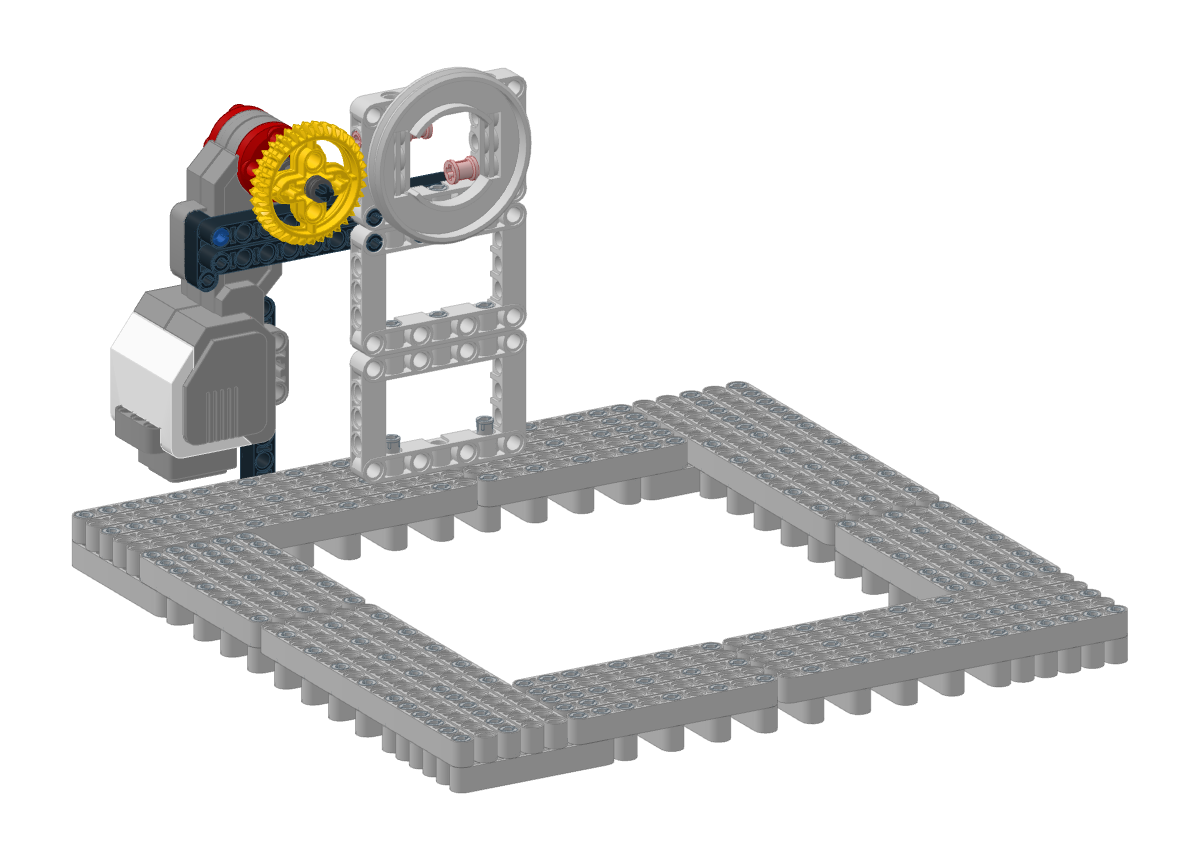
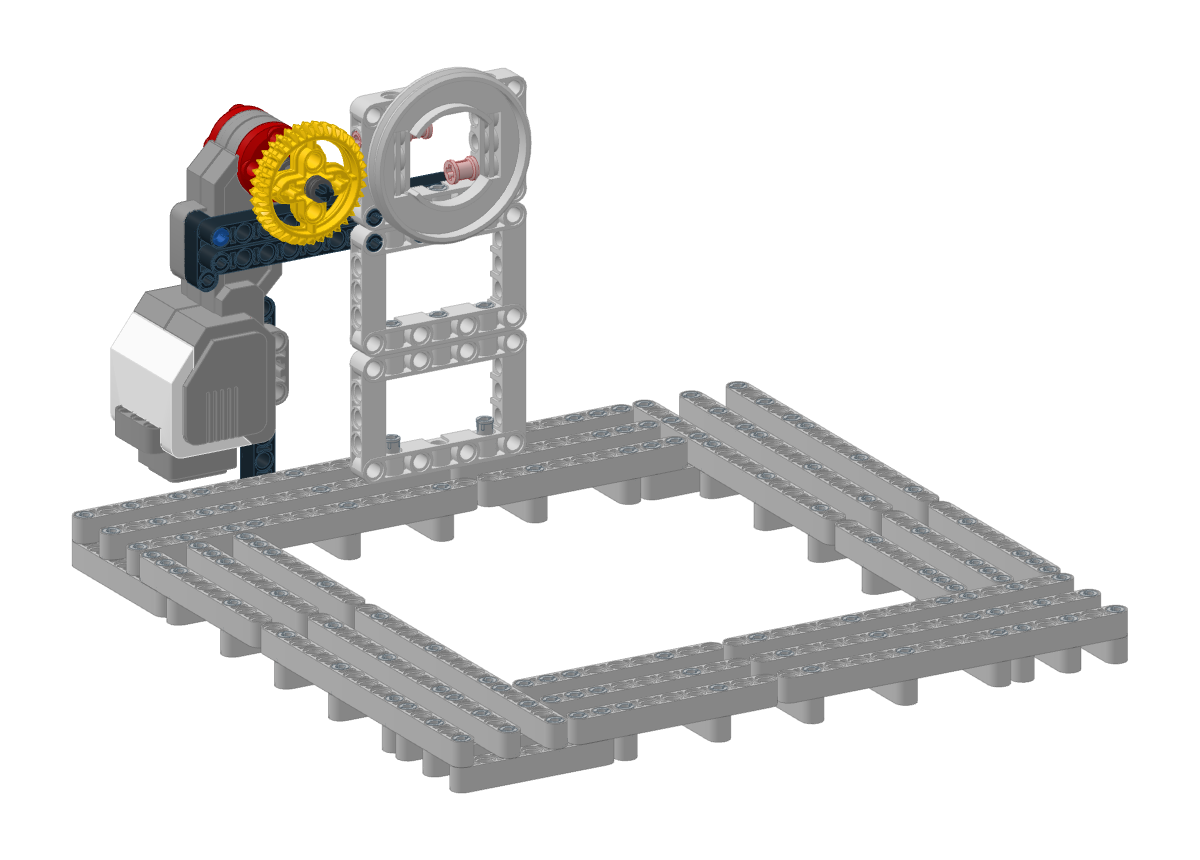
v3 底座改为镂空网格，在不影响刚度的前提下省料
用户问底座是否有必要铺满。占地保持 5 孔宽不变（站得稳），上层从 5 列减为
3 列（两侧 + 竖墙所在的正中），下层横梁从每 2 孔一根改为每 4 孔一根，
上下两层交叉处都有销，仍是刚性网格。每条边 24 根梁、47 个销降为 14 根、
30 个销。run_check、four_arm 零问题，单元测试通过。

Claude-Session: https://claude.ai/code/session_01Ms6v6oKbLQsBqZ2uktk7cX

diff --git a/docs/lego/v3/index.html b/docs/lego/v3/index.html
@@ -90,12 +90,12 @@ ul.plain{margin:0;padding-left:1.2em;display:grid;gap:6px;max-width:70ch}
 <h1>四臂整机: 死点锁紧夹爪 + 不随转的舵机</h1>
 <p class="lead">v2 解决了 "机械臂挂在马达输出轴上" 的问题, 但它仍然是一只单臂, 转动部分又长又重, 舵机跟着转。CubeStormer 3 这一级别的机器, 专业性体现在整机: 四只机械手又短又轻、夹得住也松得开、能连续旋转, 四只之间互不干涉。v3 按这个目标从整机重新设计, 自成一套模型和检查。之前的版本都保留不动: <a href="https://claude.ai/artifact/BWgtEpkX4PGRGnYzvNV2L4">v1 大马达版</a>、<a href="https://claude.ai/artifact/9yGEt1ogaxxmStkyxYWYBL">v2 转盘版</a>。</p>
 <div class="plate"><img src="img/cover.png" alt="四臂整机总览" class="" loading="lazy" width="1400" height="900"></div>
-<div class="facts"><div class="fact"><b>20</b><span>个步骤 (一个模块的完整步骤, 其余三个照做)</span></div><div class="fact"><b>708</b><span>个乐高零件, 另加 EV3 大马达和 Geekservo 各 4 个</span></div><div class="fact"><b>约 52 mm</b><span>转动部分长度 (v2 约 144mm)</span></div><div class="fact"><b>无限</b><span>机械手旋转范围 (舵机不跟着转)</span></div></div>
+<div class="facts"><div class="fact"><b>20</b><span>个步骤 (一个模块的完整步骤, 其余三个照做)</span></div><div class="fact"><b>600</b><span>个乐高零件, 另加 EV3 大马达和 Geekservo 各 4 个</span></div><div class="fact"><b>约 52 mm</b><span>转动部分长度 (v2 约 144mm)</span></div><div class="fact"><b>无限</b><span>机械手旋转范围 (舵机不跟着转)</span></div></div>
 <nav class="toc"><a href="#eval">v2 评估</a><a href="#idea">设计思路</a><a href="#four">四臂检查</a><a href="#buy">要买的零件</a><a href="#bom">零件清单</a><a href="#s1">1. 底座</a><a href="#s2">2. 竖墙</a><a href="#s3">3. 转盘下半</a><a href="#s4">4. 马达尾脚</a><a href="#s5">5. 马达前梁</a><a href="#s6">6. 齿轮</a><a href="#s7">7. 装竖墙</a><a href="#s8">8. 装马达</a><a href="#s9">9. 舵机平台</a><a href="#s10">10. 舵机</a><a href="#s11">11. 装平台</a><a href="#s12">12. 十字块和舵机连杆</a><a href="#s13">13. 侧板与夹指架</a><a href="#s14">14. 转盘上半</a><a href="#s15">15. 夹指</a><a href="#s16">16. 连杆与十字接头</a><a href="#s17">17. 推杆</a><a href="#s18">18. 装机械头</a><a href="#s19">19. 装另外三个机械手</a><a href="#s20">20. 放入魔方</a><a href="#checks">检查与待验证</a><a href="#safety">上电前</a></nav>
 </header>
 <section id="eval" class="cover"><h2>v2 评估: 离 CubeStormer 3 的专业水准还差在整机</h2>
 <p>CubeStormer 3 没有公开图纸和源码, 下表 "CS3 级别的做法" 一列是从公开视频能看到的整体特征归纳出来的, 不是对它内部结构的复刻。v3 的每个具体结构都是在这里重新推导、并用程序检查过的。</p>
-<div class="tbl"><table class="cmp"><tr><th>方面</th><th>v2</th><th>CS3 级别的做法</th><th>v3</th></tr><tr><td>整机形态</td><td>只有单臂; 四臂怎么排、底座怎么连都没有设计, 也没有四臂之间的干涉检查</td><td>四个一样的模块两两垂直, 固定在一个整体底座上</td><td>四个相同模块 + 横梁两层交叉铺成的平台底座, 孔位保证四根轴线过魔方中心、两两垂直; 四臂干涉按全部状态组合扫描过</td></tr><tr><td>转动部分</td><td>转盘上装着舵机、叉子盒、两根 16 号导轨, 从转盘端面到魔方约 144mm, 转动惯量大</td><td>夹爪短而轻, 马达和舵机都不跟着转</td><td>转动的只有转盘上半、两块侧板、夹指、连杆和推杆, 约 52mm 长, 没有舵机和马达</td></tr><tr><td>夹紧</td><td>U 形叉沿轴向插入, 水平时没有压紧力, 曲柄停在死点不等于锁紧 (外部评审 ① ②)</td><td>两片夹指从两侧合拢夹住魔方</td><td>两片会转的夹指 + 肘节连杆: 连杆推到死点时魔方的反推力沿连杆方向互相抵消, 夹指推不开, 舵机不受力</td></tr><tr><td>旋转范围</td><td>舵机随机械手转动, 线缆会缠, 规划器必须限角度 (±270° 时规划慢 20 多倍)</td><td>机械手可以连续旋转</td><td>舵机固定在后面的平台上, 经穿过转盘中孔的推杆开合夹爪; 机械手可以无限旋转, 规划器不需要角度限制</td></tr><tr><td>驱动</td><td>马达输出轴直接带机械手</td><td>—</td><td>马达偏到侧面, 36 齿齿轮带 60 齿转盘外圈, 扭矩放大 1.67 倍, 马达的回差和编码器误差在机械手上缩小 1.67 倍; 输出轴不承受弯矩</td></tr></table></div>
+<div class="tbl"><table class="cmp"><tr><th>方面</th><th>v2</th><th>CS3 级别的做法</th><th>v3</th></tr><tr><td>整机形态</td><td>只有单臂; 四臂怎么排、底座怎么连都没有设计, 也没有四臂之间的干涉检查</td><td>四个一样的模块两两垂直, 固定在一个整体底座上</td><td>四个相同模块 + 横梁两层交叉搭成的网格底座, 孔位保证四根轴线过魔方中心、两两垂直; 四臂干涉按全部状态组合扫描过</td></tr><tr><td>转动部分</td><td>转盘上装着舵机、叉子盒、两根 16 号导轨, 从转盘端面到魔方约 144mm, 转动惯量大</td><td>夹爪短而轻, 马达和舵机都不跟着转</td><td>转动的只有转盘上半、两块侧板、夹指、连杆和推杆, 约 52mm 长, 没有舵机和马达</td></tr><tr><td>夹紧</td><td>U 形叉沿轴向插入, 水平时没有压紧力, 曲柄停在死点不等于锁紧 (外部评审 ① ②)</td><td>两片夹指从两侧合拢夹住魔方</td><td>两片会转的夹指 + 肘节连杆: 连杆推到死点时魔方的反推力沿连杆方向互相抵消, 夹指推不开, 舵机不受力</td></tr><tr><td>旋转范围</td><td>舵机随机械手转动, 线缆会缠, 规划器必须限角度 (±270° 时规划慢 20 多倍)</td><td>机械手可以连续旋转</td><td>舵机固定在后面的平台上, 经穿过转盘中孔的推杆开合夹爪; 机械手可以无限旋转, 规划器不需要角度限制</td></tr><tr><td>驱动</td><td>马达输出轴直接带机械手</td><td>—</td><td>马达偏到侧面, 36 齿齿轮带 60 齿转盘外圈, 扭矩放大 1.67 倍, 马达的回差和编码器误差在机械手上缩小 1.67 倍; 输出轴不承受弯矩</td></tr></table></div>
 </section>
 <section id="idea" class="cover"><h2>设计思路</h2>
 <div class="two"><figure style="margin:0" class="cover"><div class="plate"><img src="img/mech_closed.png" alt="夹紧" class="" loading="lazy" width="1000" height="620"></div><figcaption class="cap">侧视, 夹紧: 两根黄色连杆和推杆垂直 (死点), 夹指合拢在魔方外层上下两侧</figcaption></figure><figure style="margin:0" class="cover"><div class="plate"><img src="img/mech_open.png" alt="松开" class="" loading="lazy" width="1000" height="620"></div><figcaption class="cap">侧视, 松开: 推杆后退 12mm, 夹指张开约 18°</figcaption></figure></div>
@@ -110,33 +110,33 @@ ul.plain{margin:0;padding-left:1.2em;display:grid;gap:6px;max-width:70ch}
 <div class="note"><b>相邻两只机械手不能同时水平。</b>这是任何从外侧夹住魔方的夹爪都有的几何限制: 两只相邻机械手都转到水平时, 两副夹指会在魔方棱边外面的同一个位置相遇。v3 把它写进了规划器的可选约束 (<code>python -m quadcuber plan ... --no-adjacent-horizontal</code>): 转动中的机械手, 两侧邻居必须竖直且不同时转动。按现在的估算耗时, 20 步随机序列平均从 7.95 秒变成 9.69 秒 (约 +22%)。</div>
 </section>
 <section id="buy" class="cover"><h2>要买的零件</h2>
-<div class="tbl"><table><tr><th>零件</th><th>编号</th><th>整机数量</th><th>说明</th></tr><tr><td>60 齿转盘 上半 + 下半</td><td>18938 + 18939</td><td>4 套</td><td>每只机械手 1 套; v2 已经买了 1 套的话再买 3 套</td></tr><tr><td>36 齿双面锥齿轮</td><td>32498</td><td>4</td><td>和转盘外圈啮合</td></tr><tr><td>7x5 框架</td><td>64179</td><td>20</td><td>每个模块 5 块 (竖墙 3、推杆导向 1、平台前半 1); 底座和其余部分都是梁</td></tr><tr><td>3x5 L 形粗梁</td><td>32526</td><td>24</td><td>机械头侧板每侧 2 根, 平台支腿每侧 1 根</td></tr><tr><td>15 孔 / 11 孔 / 3 孔粗梁</td><td>32278 / 32525 / 32523</td><td>28 / 12 / 4</td><td>底座上层每条边 5 根 15 孔; 平台下的梁、支腿竖梁、马达前端的梁</td></tr><tr><td>十字轴接头 (带圆孔)</td><td>32039</td><td>4</td><td>夹爪的十字接头</td></tr><tr><td>十字块 1x2</td><td>6536</td><td>4</td><td>推杆上的十字块</td></tr><tr><td>2 孔细梁 (两端十字孔)</td><td>41677</td><td>4</td><td>舵机曲柄</td></tr><tr><td>无摩擦长销 / 无摩擦销</td><td>32556a / 3673</td><td>4 / 8</td><td>夹爪的活动关节</td></tr><tr><td>摩擦销</td><td>2780</td><td>380</td><td>多买一些备用</td></tr><tr><td>EV3 大马达 / Geekservo 灰色</td><td>—</td><td>4 / 4</td><td>现在只有 2 个大马达, 还缺 2 个</td></tr></table></div>
+<div class="tbl"><table><tr><th>零件</th><th>编号</th><th>整机数量</th><th>说明</th></tr><tr><td>60 齿转盘 上半 + 下半</td><td>18938 + 18939</td><td>4 套</td><td>每只机械手 1 套; v2 已经买了 1 套的话再买 3 套</td></tr><tr><td>36 齿双面锥齿轮</td><td>32498</td><td>4</td><td>和转盘外圈啮合</td></tr><tr><td>7x5 框架</td><td>64179</td><td>20</td><td>每个模块 5 块 (竖墙 3、推杆导向 1、平台前半 1); 底座和其余部分都是梁</td></tr><tr><td>3x5 L 形粗梁</td><td>32526</td><td>24</td><td>机械头侧板每侧 2 根, 平台支腿每侧 1 根</td></tr><tr><td>15 孔 / 11 孔 / 3 孔粗梁</td><td>32278 / 32525 / 32523</td><td>20 / 12 / 4</td><td>底座上层每条边 3 根 15 孔; 平台下的梁、支腿竖梁、马达前端的梁</td></tr><tr><td>十字轴接头 (带圆孔)</td><td>32039</td><td>4</td><td>夹爪的十字接头</td></tr><tr><td>十字块 1x2</td><td>6536</td><td>4</td><td>推杆上的十字块</td></tr><tr><td>2 孔细梁 (两端十字孔)</td><td>41677</td><td>4</td><td>舵机曲柄</td></tr><tr><td>无摩擦长销 / 无摩擦销</td><td>32556a / 3673</td><td>4 / 8</td><td>夹爪的活动关节</td></tr><tr><td>摩擦销</td><td>2780</td><td>312</td><td>多买一些备用</td></tr><tr><td>EV3 大马达 / Geekservo 灰色</td><td>—</td><td>4 / 4</td><td>现在只有 2 个大马达, 还缺 2 个</td></tr></table></div>
 <p class="cap">可以先只搭一个模块 (底座只要它那一条边) 做单臂实测, 验证夹持和转速后再买齐四套。</p>
 </section>
 <section id="bom" class="cover"><h2>零件清单 (整机)</h2><p class="cap">颜色不限, 图中颜色只是为了区分 (深灰是底座, 红色是夹指, 黄色是连杆)。另需 56mm 魔方 1 个。</p><div class="bom">
 <div class="item"><img src="img/part_18938_71.png" alt="60 齿转盘 上半" class="" loading="lazy" width="260" height="200"><div class="qty">4×</div><div>60 齿转盘 上半</div><div class="mono">18938</div></div>
 <div class="item"><img src="img/part_18939_71.png" alt="60 齿转盘 下半" class="" loading="lazy" width="260" height="200"><div class="qty">4×</div><div>60 齿转盘 下半</div><div class="mono">18939</div></div>
 <div class="item"><img src="img/part_32039_0.png" alt="十字轴接头 (带圆孔)" class="" loading="lazy" width="260" height="200"><div class="qty">4×</div><div>十字轴接头 (带圆孔)</div><div class="mono">32039</div></div>
-<div class="item"><img src="img/part_32278_72.png" alt="15 孔粗梁" class="" loading="lazy" width="260" height="200"><div class="qty">20×</div><div>15 孔粗梁</div><div class="mono">32278</div></div>
+<div class="item"><img src="img/part_32278_72.png" alt="15 孔粗梁" class="" loading="lazy" width="260" height="200"><div class="qty">12×</div><div>15 孔粗梁</div><div class="mono">32278</div></div>
 <div class="item"><img src="img/part_32278_0.png" alt="15 孔粗梁" class="" loading="lazy" width="260" height="200"><div class="qty">8×</div><div>15 孔粗梁</div><div class="mono">32278</div></div>
-<div class="item"><img src="img/part_32316_72.png" alt="5 孔粗梁" class="" loading="lazy" width="260" height="200"><div class="qty">36×</div><div>5 孔粗梁</div><div class="mono">32316</div></div>
+<div class="item"><img src="img/part_32316_72.png" alt="5 孔粗梁" class="" loading="lazy" width="260" height="200"><div class="qty">20×</div><div>5 孔粗梁</div><div class="mono">32316</div></div>
 <div class="item"><img src="img/part_32316_0.png" alt="5 孔粗梁" class="" loading="lazy" width="260" height="200"><div class="qty">4×</div><div>5 孔粗梁</div><div class="mono">32316</div></div>
 <div class="item"><img src="img/part_32316_14.png" alt="5 孔粗梁" class="" loading="lazy" width="260" height="200"><div class="qty">12×</div><div>5 孔粗梁</div><div class="mono">32316</div></div>
 <div class="item"><img src="img/part_32498_14.png" alt="36 齿双面锥齿轮" class="" loading="lazy" width="260" height="200"><div class="qty">4×</div><div>36 齿双面锥齿轮</div><div class="mono">32498</div></div>
 <div class="item"><img src="img/part_32523_0.png" alt="3 孔粗梁" class="" loading="lazy" width="260" height="200"><div class="qty">4×</div><div>3 孔粗梁</div><div class="mono">32523</div></div>
-<div class="item"><img src="img/part_32524_72.png" alt="7 孔粗梁" class="" loading="lazy" width="260" height="200"><div class="qty">20×</div><div>7 孔粗梁</div><div class="mono">32524</div></div>
+<div class="item"><img src="img/part_32524_72.png" alt="7 孔粗梁" class="" loading="lazy" width="260" height="200"><div class="qty">12×</div><div>7 孔粗梁</div><div class="mono">32524</div></div>
 <div class="item"><img src="img/part_32524_4.png" alt="7 孔粗梁" class="" loading="lazy" width="260" height="200"><div class="qty">8×</div><div>7 孔粗梁</div><div class="mono">32524</div></div>
 <div class="item"><img src="img/part_32525_0.png" alt="11 孔粗梁" class="" loading="lazy" width="260" height="200"><div class="qty">12×</div><div>11 孔粗梁</div><div class="mono">32525</div></div>
 <div class="item"><img src="img/part_32526_0.png" alt="3x5 L 形粗梁" class="" loading="lazy" width="260" height="200"><div class="qty">8×</div><div>3x5 L 形粗梁</div><div class="mono">32526</div></div>
 <div class="item"><img src="img/part_32526_71.png" alt="3x5 L 形粗梁" class="" loading="lazy" width="260" height="200"><div class="qty">16×</div><div>3x5 L 形粗梁</div><div class="mono">32526</div></div>
-<div class="item"><img src="img/part_40490_72.png" alt="9 孔粗梁" class="" loading="lazy" width="260" height="200"><div class="qty">20×</div><div>9 孔粗梁</div><div class="mono">40490</div></div>
+<div class="item"><img src="img/part_40490_72.png" alt="9 孔粗梁" class="" loading="lazy" width="260" height="200"><div class="qty">12×</div><div>9 孔粗梁</div><div class="mono">40490</div></div>
 <div class="item"><img src="img/part_40490_0.png" alt="9 孔粗梁" class="" loading="lazy" width="260" height="200"><div class="qty">16×</div><div>9 孔粗梁</div><div class="mono">40490</div></div>
 <div class="item"><img src="img/part_41677_0.png" alt="2 孔细梁 (两端十字孔)" class="" loading="lazy" width="260" height="200"><div class="qty">4×</div><div>2 孔细梁 (两端十字孔)</div><div class="mono">41677</div></div>
 <div class="item"><img src="img/part_64179_71.png" alt="7x5 框架" class="" loading="lazy" width="260" height="200"><div class="qty">20×</div><div>7x5 框架</div><div class="mono">64179</div></div>
 <div class="item"><img src="img/part_6536_0.png" alt="十字块 1x2 (十字孔 + 圆孔)" class="" loading="lazy" width="260" height="200"><div class="qty">4×</div><div>十字块 1x2 (十字孔 + 圆孔)</div><div class="mono">6536</div></div>
 <div class="item"><img src="img/part_95658_15.png" alt="EV3 大马达" class="" loading="lazy" width="260" height="200"><div class="qty">4×</div><div>EV3 大马达</div><div class="mono">95658</div></div>
 <div class="item"><img src="img/part_geekservo_72.png" alt="Geekservo 舵机 (灰色, 270°)" class="" loading="lazy" width="260" height="200"><div class="qty">4×</div><div>Geekservo 舵机 (灰色, 270°)</div><div class="mono">geekservo</div></div>
-<div class="item"><img src="img/part_2780_0.png" alt="摩擦销 (2 孔长)" class="" loading="lazy" width="260" height="200"><div class="qty">380×</div><div>摩擦销 (2 孔长)</div><div class="mono">2780</div></div>
+<div class="item"><img src="img/part_2780_0.png" alt="摩擦销 (2 孔长)" class="" loading="lazy" width="260" height="200"><div class="qty">312×</div><div>摩擦销 (2 孔长)</div><div class="mono">2780</div></div>
 <div class="item"><img src="img/part_32054_4.png" alt="带挡套长销 (3 孔长, 红色)" class="" loading="lazy" width="260" height="200"><div class="qty">16×</div><div>带挡套长销 (3 孔长, 红色)</div><div class="mono">32054</div></div>
 <div class="item"><img src="img/part_32062_0.png" alt="2 号轴" class="" loading="lazy" width="260" height="200"><div class="qty">8×</div><div>2 号轴</div><div class="mono">32062</div></div>
 <div class="item"><img src="img/part_32073_0.png" alt="5 号轴" class="" loading="lazy" width="260" height="200"><div class="qty">8×</div><div>5 号轴</div><div class="mono">32073</div></div>
@@ -155,9 +155,9 @@ ul.plain{margin:0;padding-left:1.2em;display:grid;gap:6px;max-width:70ch}
 <div class="subtag">子组件 · 底座</div>
 <h3>底座</h3></div>
 </div>
-<div class="callout"><div class="chip"><img src="img/part_32278_72.png" alt="15 孔粗梁" class="" loading="lazy" width="260" height="200"><div class="x">20×</div><div class="n">15 孔粗梁</div></div><div class="chip"><img src="img/part_40490_72.png" alt="9 孔粗梁" class="" loading="lazy" width="260" height="200"><div class="x">20×</div><div class="n">9 孔粗梁</div></div><div class="chip"><img src="img/part_32316_72.png" alt="5 孔粗梁" class="" loading="lazy" width="260" height="200"><div class="x">36×</div><div class="n">5 孔粗梁</div></div><div class="chip"><img src="img/part_2780_0.png" alt="摩擦销 (2 孔长)" class="" loading="lazy" width="260" height="200"><div class="x">188×</div><div class="n">摩擦销 (2 孔长)</div></div><div class="chip"><img src="img/part_32524_72.png" alt="7 孔粗梁" class="" loading="lazy" width="260" height="200"><div class="x">20×</div><div class="n">7 孔粗梁</div></div></div>
+<div class="callout"><div class="chip"><img src="img/part_32278_72.png" alt="15 孔粗梁" class="" loading="lazy" width="260" height="200"><div class="x">12×</div><div class="n">15 孔粗梁</div></div><div class="chip"><img src="img/part_40490_72.png" alt="9 孔粗梁" class="" loading="lazy" width="260" height="200"><div class="x">12×</div><div class="n">9 孔粗梁</div></div><div class="chip"><img src="img/part_32316_72.png" alt="5 孔粗梁" class="" loading="lazy" width="260" height="200"><div class="x">20×</div><div class="n">5 孔粗梁</div></div><div class="chip"><img src="img/part_2780_0.png" alt="摩擦销 (2 孔长)" class="" loading="lazy" width="260" height="200"><div class="x">120×</div><div class="n">摩擦销 (2 孔长)</div></div><div class="chip"><img src="img/part_32524_72.png" alt="7 孔粗梁" class="" loading="lazy" width="260" height="200"><div class="x">12×</div><div class="n">7 孔粗梁</div></div></div>
 <div class="plate"><img src="img/step01.png" alt="底座" class="" loading="lazy" width="1200" height="860"></div>
-<p>底座全部用横梁铺成, 四条边各是一条 5 个孔宽的平台带子, 围成方框, 中间留出放魔方的空间。先铺下层: 每条边 9 根 5 孔梁横着摆 (每隔一个孔一根), 角上 5 根 7 孔梁顺着边摆; 在要连接的孔里插好摩擦销。再铺上层: 每条边 5 列, 每列一根 15 孔梁接一根 9 孔梁, 并排压在下层的销上, 铺成一整块平面。四条边按同一个转向排成风车形: 每条边的上层伸到一个角上, 另一个角由下一条边的上层盖住, 下层的 7 孔梁把两条边连起来。竖墙将来立在每条边正中那一列上。</p>
+<p>底座全部用横梁搭成网格, 四条边各是一条 5 个孔宽的平台带子, 围成方框, 中间留出放魔方的空间。先铺下层: 每条边 5 根 5 孔梁横着摆 (每隔 3 个孔一根), 角上 3 根 7 孔梁顺着边摆; 在要连接的孔里插好摩擦销。再铺上层: 每条边 3 列 (两侧和正中), 每列一根 15 孔梁接一根 9 孔梁, 压在下层的销上。四条边按同一个转向排成风车形: 每条边的上层伸到一个角上, 另一个角由下一条边的上层盖住, 下层的 7 孔梁把两条边连起来。竖墙将来立在每条边正中那一列上。</p>
 </section>
 <section class="step sub" id="s2">
 <div class="step-head">

diff --git a/tools/lego/v3/model.py b/tools/lego/v3/model.py
@@ -489,13 +489,14 @@ def module(open_s=0.0, angle=0.0, steps=True, on_base=False):
     return parts
 
 
-# ---- 底座: 横梁上下两层交叉铺成的平台 (不用框架, 2026-09-29 用户要求) ------------------------------
-# 每条边是一条 5 个孔宽的带子, 竖墙立在带子正中那一列上。上层 5 根长梁沿边的方向并排铺满 (每列一根 15 孔 + 一根 9 孔,
-# 首尾相接), 形成完整的面; 下层 5 孔短梁横着垫在下面, 每隔一个孔一根, 每根 3 个销和上层的 5 列连起来。
-# 四个角按风车方向分配: 每条边的上层占住它逆时针方向的那个角; 另一个角由下层 7 孔梁沿边方向铺, 这些梁同时垫在
+# ---- 底座: 横梁上下两层交叉搭成的网格平台 (不用框架, 2026-09-29 用户要求) ------------------------------
+# 每条边是一条 5 个孔宽的网格带子 (占地和原来的框架底座一样宽, 站得稳), 竖墙立在带子正中那一列上。
+# 上层 3 根长梁沿边的方向 (两侧 + 正中, 每列一根 15 孔 + 一根 9 孔首尾相接); 下层 5 孔短梁横着垫在下面, 每隔 3 个孔一根,
+# 每根 3 个销连上层 3 列。上下两层互相垂直、交叉点都有销, 是一个刚性的网格, 不必铺满 (用户要求在不影响刚度的前提下省料)。
+# 四个角按风车方向分配: 每条边的上层占住一个角; 另一个角由下层 7 孔梁沿边方向铺, 这些梁同时垫在
 # 本边上层长梁的末端和下一条边上层长梁的下面, 把相邻两条边连成一体。所有销都竖直。
 BASE_Y = TABLE_Y - 30  # 上层梁中心; 下层在 TABLE_Y - 10, 直接放在桌面上
-BASE_XS = (-280, -260, -240, -220, -200)  # 带子的 5 列 (竖墙在 -240)
+BASE_XS = (-280, -240, -200)  # 上层 3 列 (竖墙在 -240)
 
 
 def base_blade(s):
@@ -505,13 +506,13 @@ def base_blade(s):
     for x in BASE_XS:
         out.append(Part("32278.dat", C_BASE, (x, yu, -140), BEAM_Z_HOLES_Y, s))  # 上层: z = -280 ... 0
         out.append(Part("40490.dat", C_BASE, (x, yu, 100), BEAM_Z_HOLES_Y, s))  # 上层: z = 20 ... 180
-    for z in range(-180, 141, 40):  # 下层横梁 (两层长梁的接缝两侧都有)
+    for z in (-180, -100, -20, 60, 140):  # 下层横梁 (上层接缝两侧各有一根)
         out.append(Part("32316.dat", C_BASE, (-240, yd, z), BASE_BEAM_X, s))
-        for x in (-280, -240, -200):
+        for x in BASE_XS:
             out.append(Part("2780.dat", C_PIN, (x, yp, z), ALONG_Y, s))
-    for x in BASE_XS:  # 角上: 下层 7 孔梁 z = 160 ... 280, 接本边上层末端 (160、180) 和下一条边的上层 (240、280)
+    for x in BASE_XS:  # 角上: 下层 7 孔梁 z = 160 ... 280, 接本边上层末端 (160、180) 和下一条边的上层 (200 ... 280 里的 3 列)
         out.append(Part("32524.dat", C_BASE, (x, yd, 220), BEAM_Z_HOLES_Y, s))
-        for z in (160, 180, 240, 280):
+        for z in (160, 180, 200, 240, 280):
             out.append(Part("2780.dat", C_PIN, (x, yp, z), ALONG_Y, s))
     return out
 
@@ -522,9 +523,9 @@ def build(state=None, with_cube=True):
     STEPS.clear()
     state = state or {}
     parts = []
-    s = step("底座", "底座全部用横梁铺成, 四条边各是一条 5 个孔宽的平台带子, 围成方框, 中间留出放魔方的空间。"
-             "先铺下层: 每条边 9 根 5 孔梁横着摆 (每隔一个孔一根), 角上 5 根 7 孔梁顺着边摆; 在要连接的孔里插好摩擦销。"
-             "再铺上层: 每条边 5 列, 每列一根 15 孔梁接一根 9 孔梁, 并排压在下层的销上, 铺成一整块平面。"
+    s = step("底座", "底座全部用横梁搭成网格, 四条边各是一条 5 个孔宽的平台带子, 围成方框, 中间留出放魔方的空间。"
+             "先铺下层: 每条边 5 根 5 孔梁横着摆 (每隔 3 个孔一根), 角上 3 根 7 孔梁顺着边摆; 在要连接的孔里插好摩擦销。"
+             "再铺上层: 每条边 3 列 (两侧和正中), 每列一根 15 孔梁接一根 9 孔梁, 压在下层的销上。"
              "四条边按同一个转向排成风车形: 每条边的上层伸到一个角上, 另一个角由下一条边的上层盖住, 下层的 7 孔梁把两条边连起来。"
              "竖墙将来立在每条边正中那一列上。", sub="底座", view=(35, 60))
     for arm in ARMS:

diff --git a/tools/lego/v3/booklet.py b/tools/lego/v3/booklet.py
@@ -178,7 +178,7 @@ ul.plain{margin:0;padding-left:1.2em;display:grid;gap:6px;max-width:70ch}
 
 EVAL_ROWS = [
     ("整机形态", "只有单臂; 四臂怎么排、底座怎么连都没有设计, 也没有四臂之间的干涉检查",
-     "四个一样的模块两两垂直, 固定在一个整体底座上", "四个相同模块 + 横梁两层交叉铺成的平台底座, 孔位保证四根轴线过魔方中心、两两垂直; 四臂干涉按全部状态组合扫描过"),
+     "四个一样的模块两两垂直, 固定在一个整体底座上", "四个相同模块 + 横梁两层交叉搭成的网格底座, 孔位保证四根轴线过魔方中心、两两垂直; 四臂干涉按全部状态组合扫描过"),
     ("转动部分", "转盘上装着舵机、叉子盒、两根 16 号导轨, 从转盘端面到魔方约 144mm, 转动惯量大",
      "夹爪短而轻, 马达和舵机都不跟着转", "转动的只有转盘上半、两块侧板、夹指、连杆和推杆, 约 52mm 长, 没有舵机和马达"),
     ("夹紧", "U 形叉沿轴向插入, 水平时没有压紧力, 曲柄停在死点不等于锁紧 (外部评审 ① ②)",
@@ -297,7 +297,7 @@ def write_html(parts, step_new, keys, subs):
                "<tr><td>36 齿双面锥齿轮</td><td>32498</td><td>4</td><td>和转盘外圈啮合</td></tr>"
                f"<tr><td>7x5 框架</td><td>64179</td><td>{byname['64179.dat']}</td><td>每个模块 5 块 (竖墙 3、推杆导向 1、平台前半 1); 底座和其余部分都是梁</td></tr>"
                f"<tr><td>3x5 L 形粗梁</td><td>32526</td><td>{byname['32526.dat']}</td><td>机械头侧板每侧 2 根, 平台支腿每侧 1 根</td></tr>"
-               f"<tr><td>15 孔 / 11 孔 / 3 孔粗梁</td><td>32278 / 32525 / 32523</td><td>{byname['32278.dat']} / {byname['32525.dat']} / {byname['32523.dat']}</td><td>底座上层每条边 5 根 15 孔; 平台下的梁、支腿竖梁、马达前端的梁</td></tr>"
+               f"<tr><td>15 孔 / 11 孔 / 3 孔粗梁</td><td>32278 / 32525 / 32523</td><td>{byname['32278.dat']} / {byname['32525.dat']} / {byname['32523.dat']}</td><td>底座上层每条边 3 根 15 孔; 平台下的梁、支腿竖梁、马达前端的梁</td></tr>"
                "<tr><td>十字轴接头 (带圆孔)</td><td>32039</td><td>4</td><td>夹爪的十字接头</td></tr>"
                "<tr><td>十字块 1x2</td><td>6536</td><td>4</td><td>推杆上的十字块</td></tr>"
                "<tr><td>2 孔细梁 (两端十字孔)</td><td>41677</td><td>4</td><td>舵机曲柄</td></tr>"

diff --git a/CLAUDE.md b/CLAUDE.md
@@ -45,7 +45,7 @@
 - `docs/wiring/`：图解接线指南，`build.py` 生成 `index.html` 和洞洞板页 `perfboard.html`（洞洞板孔位数据在 `perfboard_layout.py`，同时生成 `docs/perfboard.md`；总览图、可筛选的完整接线图、分步清单、面包板布局（Pico 横放 c3~c22/h3~h22，USB 朝左；编码器分压电阻在下半区 26~33 列；上排电源轨为 5V/地；DRV8833 和舵机电源不走面包板；3V3 经 a7→J7.4 接 DRV8833 STBY）、Pico 引脚图、万用表检查、上电顺序），已发布 https://claude.ai/artifact/9V1v8omZyuEr52coL2C6QV 。**改引脚分配时，`firmware/pico/config.py`、`docs/single_arm.md`、`docs/wiring/build.py` 三处要一起改。**
 - `docs/arm_concept.md`：乐高机械手的概念设计（给用户搭建参考，非零件清单）。夹条的实现方式是 **U 形叉 + 舵机推动沿轴向前进/后退**：叉齿卡住面中间一列的两个棱块外侧，靠形状传递扭矩和托住魔方。关键尺寸：叉齿宽 ≤16mm、退出行程 ≥13mm、魔方面前 14mm 内除叉齿外不能有宽零件（按 56mm 魔方计算）。模型里"叉子水平时也能支撑魔方"这一点待验证。
 - `tools/lego/`：单臂原型的乐高模型（`model.py`）、干涉/连接检查（`run_check.py`）、说明书生成（`booklet.py`，输出 `docs/lego/`）。用 LDraw 官方零件几何（GitHub 镜像 gkjohnson/ldraw-parts-library，ldraw.org 被网络策略拦截）和 three.js LDrawLoader + 无头 Chromium 渲染。**改模型后必须先跑 `run_check.py` 零问题，再生成说明书。** Geekservo 按用户图纸建模（`make_custom_parts.py`）：本体 24×28.8×16mm，耳朵销孔相距 32mm，输出十字轴偏心 4mm。用户有 4 个灰色（270° 舵机，夹爪用这个）和 4 个红色（很可能是 360° 连续旋转马达版，待确认）。说明书有大马达版（`docs/lego/`，artifact https://claude.ai/artifact/BWgtEpkX4PGRGnYzvNV2L4 ）和中马达版（`docs/lego/medium/`，artifact https://claude.ai/artifact/7VtzEUtxMbezHPJQYCDWPX ），`model.build(motor=...)` 切换。中马达更快（约 1.5 倍）但扭矩约为大马达的 40%，够不够要用单臂原型实测；用户还缺 1~2 个马达，实测结果决定买哪种。零件只用常见件，不按套装限制。
-- `tools/lego/v3/`（2026-09-29）：按 CubeStormer 3 思路重新设计的**四臂整机**（肘节死点夹爪、舵机固定不随转、36 齿带 60 齿转盘、横梁两层交叉铺成的平台底座（不用框架）；框架只用在最需要刚度或三向交汇处（每模块竖墙 3、导向 1、平台前 1），其余用竖梁和 L 形梁，整机 20 块），`four_arm.py` 做四臂干涉扫描。结论：相邻两臂不能同时水平，规划器用 `Machine(no_adjacent_horizontal=True)` / `--no-adjacent-horizontal`（默认关）。说明书 `docs/lego/v3/`。v1、v2 不动。
+- `tools/lego/v3/`（2026-09-29）：按 CubeStormer 3 思路重新设计的**四臂整机**（肘节死点夹爪、舵机固定不随转、36 齿带 60 齿转盘、横梁两层交叉搭成的网格底座（不用框架，不铺满）；框架只用在最需要刚度或三向交汇处（每模块竖墙 3、导向 1、平台前 1），其余用竖梁和 L 形梁，整机 20 块），`four_arm.py` 做四臂干涉扫描。结论：相邻两臂不能同时水平，规划器用 `Machine(no_adjacent_horizontal=True)` / `--no-adjacent-horizontal`（默认关）。说明书 `docs/lego/v3/`。v1、v2 不动。
 - 运行测试：`python -m unittest -v`（57 个测试）。命令行：`python -m quadcuber plan|bench|armlog`。
 
 ## 已知问题和注意事项
